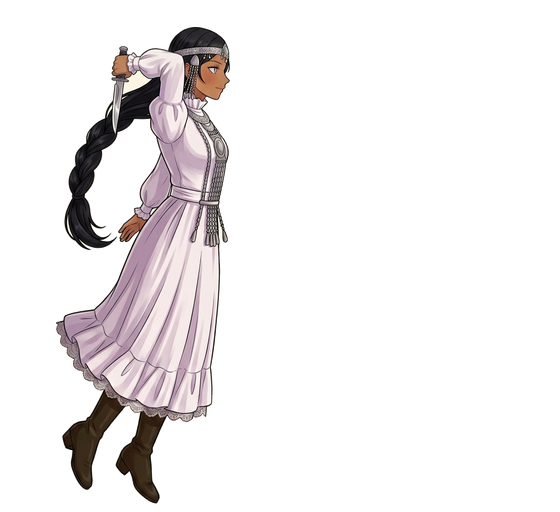
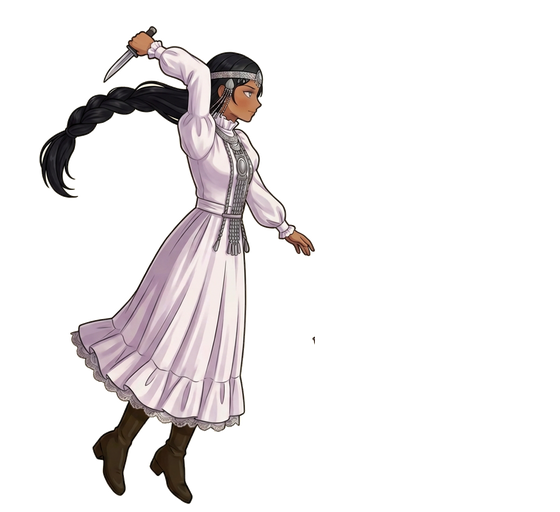
Удар в воздухе на подъёме, берег до дна провала

Changed region(s): [[0.0607, 0.0312, 0.5768, 1.0]]

diff --git a/Concepts/level_build.py b/Concepts/level_build.py
@@ -28,11 +28,15 @@ PARALLAX_GUID = '16471e47b8e5d5aa9ad83d7b78562c9c'
 TREE_GO, TREE_TR, TREE_SCRIPT = 460000001, 460000002, 460000003
 MID_GO, MID_TR, MID_SR, MID_SCRIPT = 470000001, 470000002, 470000003, 470000004
 MIDGROUND_GUID = '2afd8a1670691ca60e7e3185170acb77'
-# Тайл 3168x330 при PPU 100 = 31.68 x 3.3 юнита. Ширина с запасом перекрывает
-# весь уровень плюс сдвиг параллакса: камера проходит ~81 юнит, слой едет
-# на 0.22 от этого, то есть на 18.
-MID_W, MID_H = 110.0, 3.3
-MID_CX, MID_Y = 5.0, -2.05
+# Тайл 3168x822 при PPU 100 = 31.68 x 8.22 юнита. Ширина с запасом
+# перекрывает весь уровень плюс сдвиг параллакса: камера проходит ~81 юнит,
+# слой едет на 0.22 от этого, то есть на 18.
+# Высота 8.22, а не 3.3, — по двум причинам. Гребень должен остаться там
+# же, где был (верх полосы на y = 1.25), и при этом низ полосы обязан уйти
+# ниже дна провала: CHASM_DEPTH = 6, то есть дыра уходит до y = -6. Короткая
+# полоса обрывалась на -2.05, и в разрыве земли было видно небо.
+MID_W, MID_H = 110.0, 8.22
+MID_CX, MID_Y = 5.0, -6.97        # верх полосы = -6.97 + 8.22 = 1.25
 TRAIL_GO, TRAIL_TR, TRAIL_REND = 430000001, 430000002, 430000003
 HUD_GO, HUD_TR, HUD_SCRIPT_ID = 420000001, 420000002, 420000003
 DAMAGEABLE_GUID = '08f9d654345eb7a68a9ba5703623c71b'

diff --git a/Assets/Scripts/PlayerController.cs b/Assets/Scripts/PlayerController.cs
@@ -295,12 +295,11 @@ public class PlayerController : MonoBehaviour
         if (!pressed)
             return;
 
-        // В воздухе удар идёт сверху вниз: на подъёме и на земле — обычный
-        // горизонтальный, в падении — ножом вниз. Проверка по скорости, а не
-        // по grounded: на самой вершине дуги grounded уже false, а героиня
-        // ещё летит вверх, и такой удар читался бы неправильно.
+        // В воздухе — всегда удар сверху, и на подъёме, и на падении: наземный
+        // горизонтальный взмах в прыжке читался бы как ошибка. Проверка по
+        // grounded, а не по скорости: на вершине дуги скорость ещё вверх, но
+        // героиня уже в воздухе, и удар должен быть воздушным.
         fallingStrike = !grounded
-                     && body.velocity.y < jumpFallSpeed
                      && fallAttackFrames != null && fallAttackFrames.Length > 0;
 
         attacking = true;

diff --git a/Concepts/attack/slice_fall.py b/Concepts/attack/slice_fall.py
@@ -33,7 +33,7 @@ import re
 import subprocess
 from collections import deque
 
-SHEET = 'Concepts/attack/fall_sheet_v1a.png'
+SHEET = 'Concepts/attack/fall_sheet_v2a.png'
 OUT_DIR = 'Assets/Art/Heroine/Attack'
 META_TPL = 'Assets/Art/Heroine/Attack/attack_1.png.meta'
 CANVAS_W, CANVAS_H = 560, 512
